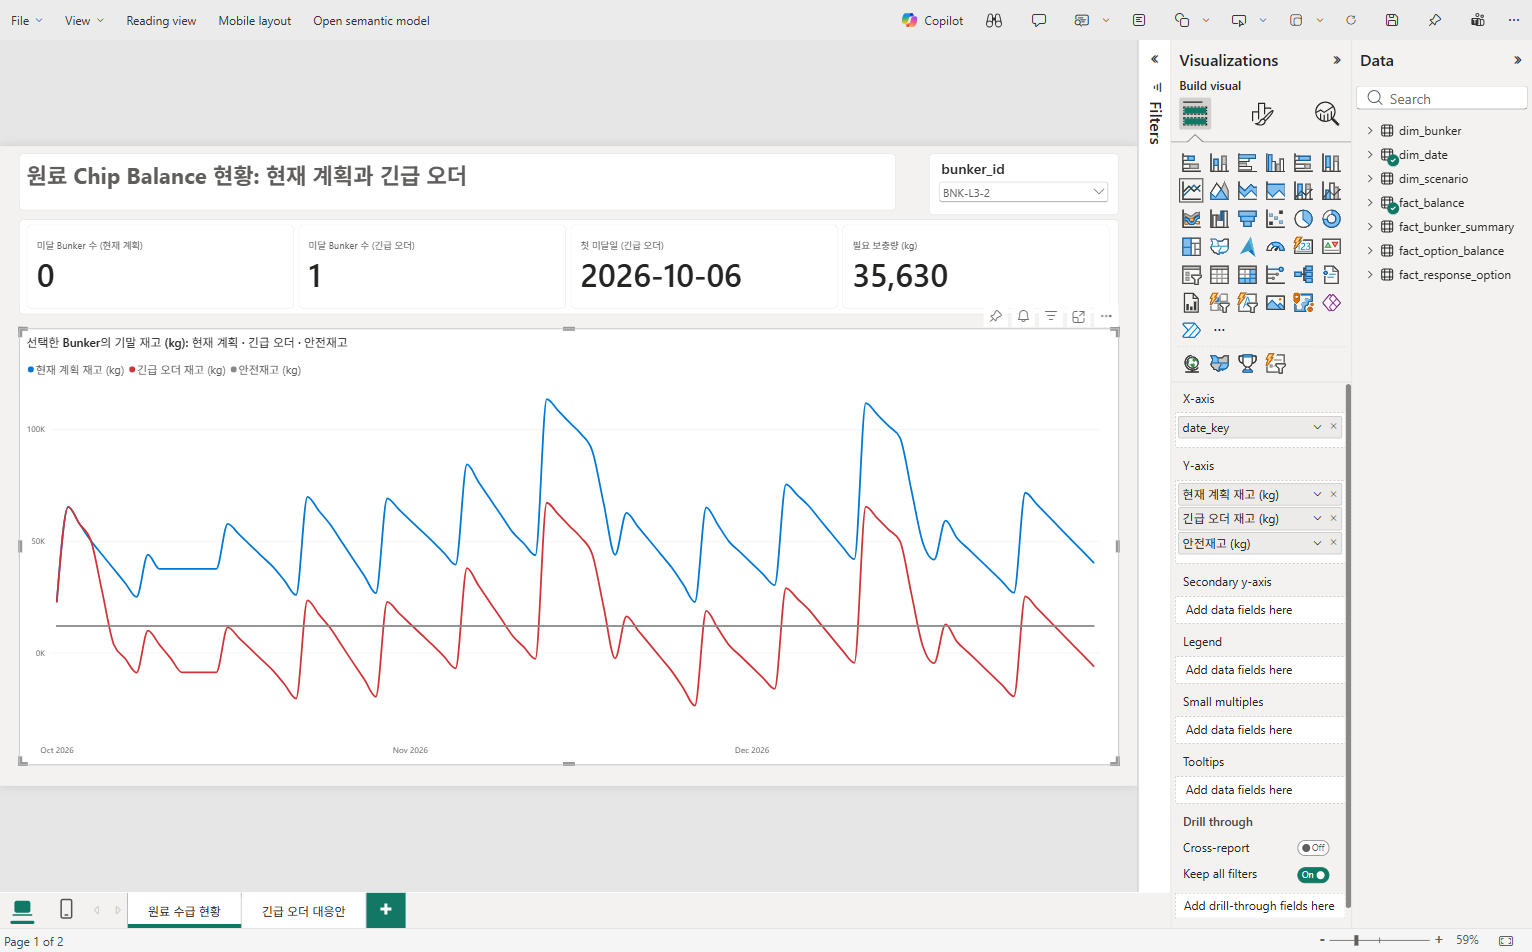
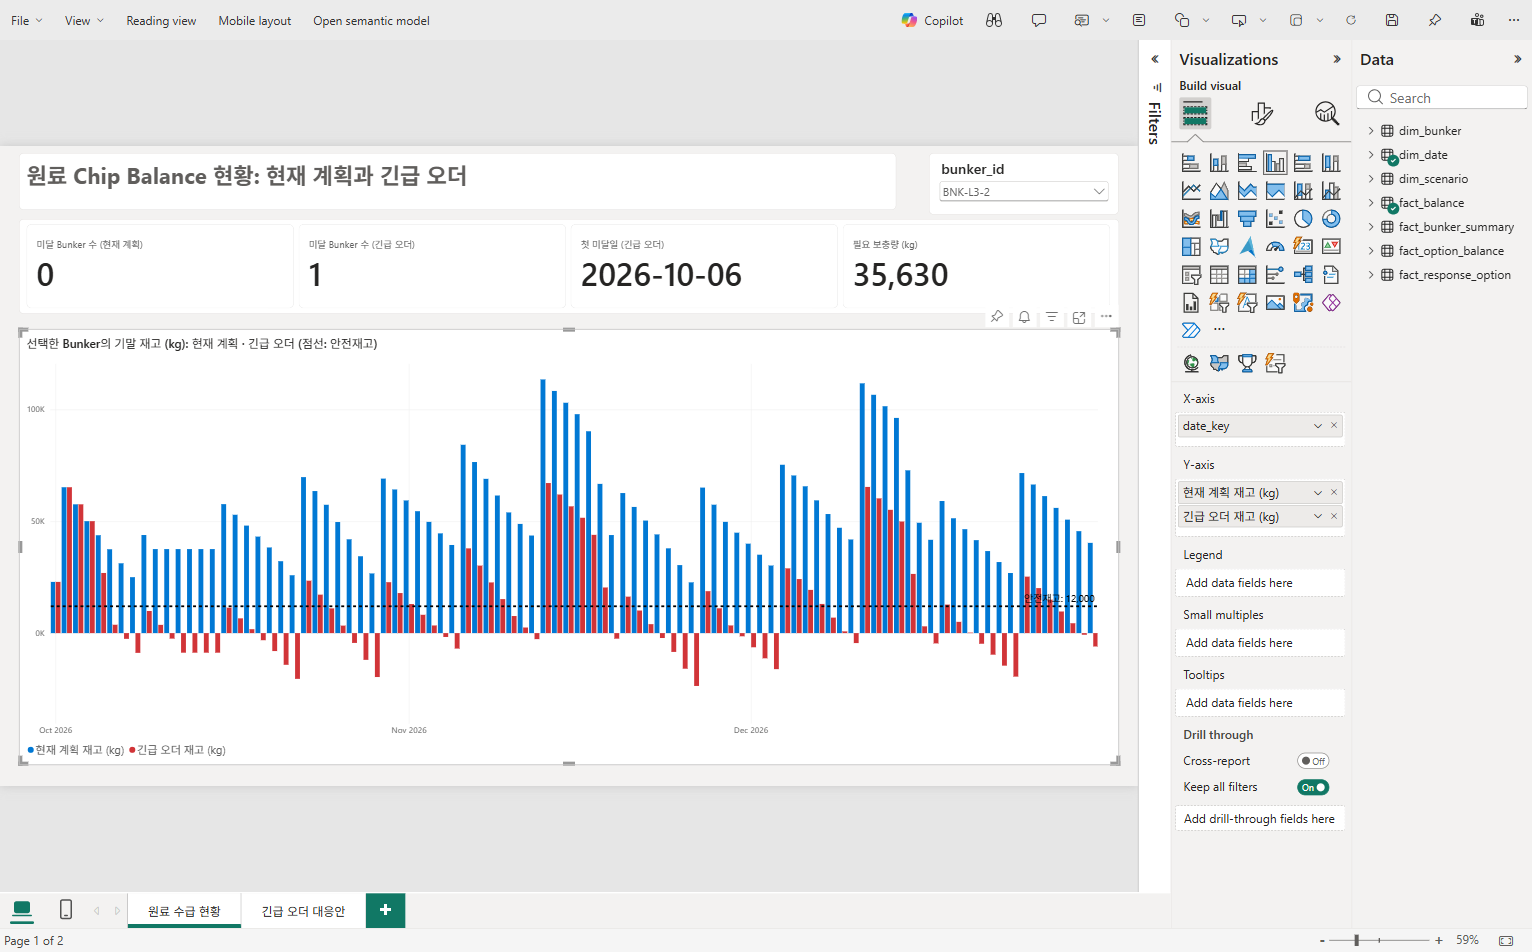
Chapter 10: clustered column charts with safety-stock constant line; Troubleshooting headings

diff --git a/docs/10-power-bi.rst b/docs/10-power-bi.rst
@@ -153,33 +153,53 @@ TMDL(Tabular Model Definition Language)은 semantic model의 테이블, 관계, 
       :width: 1000
 
 #. 슬라이서의 드롭다운을 열고 ``BNK-L3-2``\ 를 고릅니다.
-#. **꺾은선형 차트** — 캔버스 빈 곳을 누르고 **Line chart**\ 를 누릅니다. 아래 필드를 차례로 체크합니다. **Y-axis**\ 에 넣은 순서대로 파랑, 빨강, 회색 선이 됩니다.
+#. **묶은 세로 막대형 차트** — 캔버스 빈 곳을 누르고 **Clustered column chart**\ 를 누릅니다. 아래 필드를 차례로 체크합니다. **Y-axis**\ 에 넣은 순서대로 파랑, 빨강 막대가 됩니다.
 
+   * ``fact_balance``\ 의 ``현재 계획 재고 (kg)``, ``긴급 오더 재고 (kg)`` → **Y-axis**
    * ``dim_date``\ 의 ``date_key`` → **X-axis**
-   * ``fact_balance``\ 의 ``현재 계획 재고 (kg)``, ``긴급 오더 재고 (kg)``, ``안전재고 (kg)`` → **Y-axis**
 
-   **Format visual** → **General** 탭 → **Title**\ 을 펼치고, **Title**\ 의 **Text**\ 에 아래 제목을 입력합니다. 그 아래 **Subtitle**\ 은 **Off**\ 로 둡니다.
+   **Format visual** → **General** 탭 → **Title**\ 을 펼치고, **Title**\ 의 **Text**\ 에 아래 제목을 입력합니다. 그 아래 **Subtitle**\ 은 **Off**\ 로 합니다.
 
    .. code-block:: text
 
-      선택한 Bunker의 기말 재고 (kg): 현재 계획 · 긴급 오더 · 안전재고
+      선택한 Bunker의 기말 재고 (kg): 현재 계획 · 긴급 오더 (점선: 안전재고)
 
    위치와 크기: Height ``736``, Width ``1856``, Horizontal ``32``, Vertical ``308``
 
    .. image:: ../assets/screenshots/d10-chart-title.png
-      :alt: 꺾은선형 차트의 Format visual General 탭. Title이 On이고, Title 아래 Text에 선택한 Bunker의 기말이 보입니다. Heading, Font, Text color, Background color, Horizontal alignment, Text wrap 아래에 Subtitle Off, Divider Off, Spacing이 있습니다.
+      :alt: 묶은 세로 막대형 차트의 Format visual General 탭. Title이 On이고, Title 아래 Text에 선택한 Bunker의 기말이 보입니다. Heading, Font, Text color, Background color, Horizontal alignment, Text wrap 아래에 Subtitle Off, Divider Off, Spacing이 있습니다.
       :width: 200
+
+   **Visual** 탭의 **Columns** → **Layout**\ 에서 **Space between categories**\ 를 ``10``\ 으로 합니다. 막대가 굵어집니다.
+
+#. **안전재고 점선** — 차트를 선택한 채로 **Visualizations** 창의 오른쪽 아이콘(**Analytics**)을 누릅니다.
+
+   * **Y-Axis Constant Line**\ 을 펼치고 **+ Add line**\ 을 누릅니다. 생긴 줄의 연필 아이콘을 눌러 이름을 ``안전재고``\ 로 바꿉니다.
+   * **Line**\ 의 **Value** 오른쪽 **fx**\ 를 누릅니다. **Format style**\ 은 **Field value**\ 로 두고, **What field should we base this on?**\ 에서 **All data** → ``fact_balance`` → ``안전재고 (kg)``\ 를 고른 뒤 **OK**\ 를 누릅니다.
+
+     .. image:: ../assets/screenshots/d10-refline-fx.png
+        :alt: Value - Apply settings to 창. Format style은 Field value, What field should we base this on?은 안전재고 (kg)이고, 오른쪽 아래에 OK와 Cancel 버튼이 있습니다.
+        :width: 600
+
+   * **Color**\ 는 검정, **Transparency**\ 는 ``0``\ 으로 합니다. **Line style**\ 은 **Dashed** 그대로 둡니다.
+   * **Data label**\ 을 **On**\ 으로 하고, 펼쳐서 **Horizontal position**\ 은 **Right**, **Style**\ 은 **Both**, **Color**\ 는 검정으로 합니다.
+
+   **예상 결과:** 차트에 검은 점선과 ``안전재고: 12,000``\ 이 보입니다. 슬라이서에서 고른 Bunker의 안전재고 높이에 선이 그어집니다.
+
+   .. image:: ../assets/screenshots/d10-p1-refline.png
+      :alt: 원료 수급 현황 페이지에서 묶은 세로 막대형 차트를 선택하고 Analytics 창을 연 화면. Y-Axis Constant Line (1) 아래 안전재고 줄이 있고, Line의 Value는 fx로 지정되어 있으며 Color 검정, Transparency 0 %, Line style Dashed, Data label On입니다. 차트에는 검은 점선이 0K 바로 위에 가로로 그어져 있습니다.
+      :width: 1000
 
 #. **제목** — 위쪽 도구 모음의 **Text box**\ 를 누르고 ``원료 Chip Balance 현황: 현재 계획과 긴급 오더``\ 를 입력합니다. 글자를 모두 선택하고, 텍스트 도구 모음에서 글꼴 크기를 ``28``\ 로 하고 **B**\ (굵게)를 누릅니다.
 
    텍스트 상자를 선택하면 오른쪽 창이 **Format text box**\ 가 됩니다. **General** → **Properties**\ 에 위치와 크기를 입력합니다: Height ``96``, Width ``1480``, Horizontal ``32``, Vertical ``12``
 
    .. image:: ../assets/screenshots/d10-textbox.png
-      :alt: 제목 텍스트 상자를 선택한 화면. 텍스트 도구 모음에 글꼴 Segoe UI, 크기 28, 굵게가 선택되어 있고, 오른쪽은 Format text box 창의 General 탭입니다. 캔버스에 제목, 슬라이서, 카드, 꺾은선형 차트가 있습니다.
+      :alt: 제목 텍스트 상자를 선택한 화면. 텍스트 도구 모음에 글꼴 Segoe UI, 크기 28, 굵게가 선택되어 있고, 오른쪽은 Format text box 창의 General 탭입니다. 캔버스에 제목, 슬라이서, 카드, 묶은 세로 막대형 차트가 있습니다.
       :width: 1000
 
 **예상 결과:** 카드에 ``0``, ``1``, ``2026-10-06``, ``35,630``\ 이 보입니다. 현재 계획에서는 안전재고 아래로 내려가는 Bunker가 없고, 긴급 수주를 반영하면 1개가 10월 6일부터 미달하며 35,630 kg이 더 필요합니다.
-차트에서 파란 선(현재 계획)은 회색 선(안전재고) 위에 있고, 빨간 선(긴급 수주)은 10월 6일부터 회색 선 아래로 내려갑니다.
+차트에서 파란 막대(현재 계획)는 모두 점선(안전재고) 위에 있고, 빨간 막대(긴급 수주)는 10월 6일부터 점선 아래로 내려가며 0 아래로 내려가는 날도 있습니다.
 
 시각적 개체를 누르면 **Build visual**\ 에 넣은 필드가 보입니다. 카드와 차트의 필드를 확인합니다.
 
@@ -188,7 +208,7 @@ TMDL(Tabular Model Definition Language)은 semantic model의 테이블, 관계, 
    :width: 1000
 
 .. image:: ../assets/screenshots/d10-p1-chart.png
-   :alt: 원료 수급 현황 페이지에서 꺾은선형 차트를 선택한 화면. X-axis에 date_key, Y-axis에 현재 계획 재고 (kg), 긴급 오더 재고 (kg), 안전재고 (kg)가 있습니다. 차트 제목은 선택한 Bunker의 기말 재고 (kg): 현재 계획 · 긴급 오더 · 안전재고이고, 파란 선은 회색 선 위에 있으며 빨간 선은 회색 선 아래로 내려갑니다.
+   :alt: 원료 수급 현황 페이지에서 묶은 세로 막대형 차트를 선택한 화면. X-axis에 date_key, Y-axis에 현재 계획 재고 (kg), 긴급 오더 재고 (kg)가 있습니다. 차트 제목은 선택한 Bunker의 기말 재고 (kg): 현재 계획 · 긴급 오더 (점선: 안전재고)이고, 날짜마다 파란 막대와 빨간 막대가 나란히 있으며 빨간 막대는 점선 아래나 0 아래로 내려가는 날이 많습니다.
    :width: 1000
 
 5. 저장
@@ -225,21 +245,23 @@ TMDL(Tabular Model Definition Language)은 semantic model의 테이블, 관계, 
       :alt: 긴급 오더 대응안 페이지에서 표를 선택한 화면. Build visual의 Columns에 option_id, option_name, C1 안전재고, C2 용량, C3 납기, C4 이송 한도, 추천 순위, 추가 비용 (원), 첫 도착일, 판단이 있습니다. 표 머리글은 파란색이고, OPT-1부터 OPT-4까지 4행에 ✅와 ❌, 1순위 (추천), 2순위, 추가 비용, 첫 도착일, 판단이 보입니다.
       :width: 1000
 
-#. **꺾은선형 차트** — **Line chart**\ 를 넣고 아래 필드를 차례로 체크합니다.
+#. **묶은 세로 막대형 차트** — **Clustered column chart**\ 를 넣고 아래 필드를 차례로 체크합니다.
 
+   * ``fact_option_balance``\ 의 ``추천안 적용 후 재고 (kg)``, ``fact_balance``\ 의 ``긴급 오더 재고 (kg)`` → **Y-axis**
    * ``dim_date``\ 의 ``date_key`` → **X-axis**
-   * ``fact_option_balance``\ 의 ``추천안 적용 후 재고 (kg)``, ``fact_balance``\ 의 ``긴급 오더 재고 (kg)``, ``안전재고 (kg)`` → **Y-axis**
 
-   **Title**\ 의 **Text**\ 에 아래 제목을 입력하고, **Subtitle**\ 은 **Off**\ 로 둡니다.
+   **Title**\ 의 **Text**\ 에 아래 제목을 입력하고, **Subtitle**\ 은 **Off**\ 로 합니다. **Columns** → **Layout**\ 의 **Space between categories**\ 는 ``10``\ 으로 합니다.
 
    .. code-block:: text
 
-      선택한 Bunker의 기말 재고 (kg): 추천안 적용 후 · 긴급 오더 · 안전재고
+      선택한 Bunker의 기말 재고 (kg): 추천안 적용 후 · 긴급 오더 (점선: 안전재고)
+
+   **Analytics**\ 에서 4단계와 같이 **Y-Axis Constant Line**\ 을 넣습니다. 이름 ``안전재고``, **Value**\ 의 **fx** → ``fact_balance``\ 의 ``안전재고 (kg)``, 검정, **Transparency** ``0``, **Data label** **On**\ (**Right**, **Both**, 검정)입니다.
 
    위치와 크기: Height ``384``, Width ``1856``, Horizontal ``32``, Vertical ``672``
 
    .. image:: ../assets/screenshots/d10-p2-chart.png
-      :alt: 긴급 오더 대응안 페이지에서 꺾은선형 차트를 선택한 화면. X-axis에 date_key, Y-axis에 추천안 적용 후 재고 (kg), 긴급 오더 재고 (kg), 안전재고 (kg)가 있습니다. 파란 선은 회색 선 위에 있고 빨간 선은 회색 선 아래로 내려갑니다.
+      :alt: 긴급 오더 대응안 페이지에서 묶은 세로 막대형 차트를 선택한 화면. X-axis에 date_key, Y-axis에 추천안 적용 후 재고 (kg), 긴급 오더 재고 (kg)가 있습니다. 파란 막대는 모두 검은 점선 위에 있고, 빨간 막대는 점선 아래나 0 아래로 내려가는 날이 있습니다.
       :width: 1000
 
 #. **Ctrl+S**\ 를 눌러 저장합니다.
@@ -252,32 +274,33 @@ TMDL(Tabular Model Definition Language)은 semantic model의 테이블, 관계, 
    **예상 결과:** 4단계의 예상 결과와 같은 숫자와 차트가 보입니다.
 
    .. image:: ../assets/screenshots/d10-report-p1.png
-      :alt: 읽기 보기의 원료 수급 현황 페이지. 제목 원료 Chip Balance 현황: 현재 계획과 긴급 오더, 오른쪽 위 슬라이서 BNK-L3-2, 카드 미달 Bunker 수 (현재 계획) 0, 미달 Bunker 수 (긴급 오더) 1, 첫 미달일 (긴급 오더) 2026-10-06, 필요 보충량 (kg) 35,630이 있고, 아래 차트에 파란 선, 빨간 선, 회색 선이 있습니다.
+      :alt: 읽기 보기의 원료 수급 현황 페이지. 제목 원료 Chip Balance 현황: 현재 계획과 긴급 오더, 오른쪽 위 슬라이서 BNK-L3-2, 카드 미달 Bunker 수 (현재 계획) 0, 미달 Bunker 수 (긴급 오더) 1, 첫 미달일 (긴급 오더) 2026-10-06, 필요 보충량 (kg) 35,630이 있고, 아래 차트에 날짜마다 파란 막대와 빨간 막대, 검은 점선(안전재고: 12,000)이 있습니다.
       :width: 1000
 
 #. **Pages**\ 에서 ``긴급 오더 대응안``\ 을 고릅니다.
 
    **예상 결과:** 카드에 ``2``, ``OPT-2 Bunker 간 이송``, ``1,000,000``\ 이 보입니다.
    표에서 ``OPT-2``\ 와 ``OPT-3``\ 은 C1~C4가 모두 ✅이고 추천 순위가 ``1순위 (추천)``, ``2순위``\ 입니다. ``OPT-1``\ 은 C1, ``OPT-4``\ 는 C1과 C3이 ❌입니다.
-   차트의 파란 선(추천안 적용 후)은 회색 선(안전재고) 위에 있습니다. 06장에서 계산한 결과와 같습니다.
+   차트의 파란 막대(추천안 적용 후)는 모두 점선(안전재고) 위에 있습니다. 06장에서 계산한 결과와 같습니다.
 
    .. image:: ../assets/screenshots/d10-report-p2.png
-      :alt: 읽기 보기의 긴급 오더 대응안 페이지. 카드 기준 충족 대응안 수 2, 추천안 OPT-2 Bunker 간 이송, 추천안 추가 비용 (원) 1,000,000이 있습니다. 표에서 OPT-1은 C1 ❌, OPT-2는 모두 ✅와 1순위 (추천), OPT-3은 모두 ✅와 2순위, OPT-4는 C1과 C3 ❌이고 판단에 C1 안전재고: BNK-L3-2 10/12부터 미달, C3 납기: SO-10322 완료 10/12, 납기 10/08이 두 줄로 보입니다. 아래 차트에서 파란 선은 회색 선 위에 있습니다.
+      :alt: 읽기 보기의 긴급 오더 대응안 페이지. 카드 기준 충족 대응안 수 2, 추천안 OPT-2 Bunker 간 이송, 추천안 추가 비용 (원) 1,000,000이 있습니다. 표에서 OPT-1은 C1 ❌, OPT-2는 모두 ✅와 1순위 (추천), OPT-3은 모두 ✅와 2순위, OPT-4는 C1과 C3 ❌이고 판단에 C1 안전재고: BNK-L3-2 10/12부터 미달, C3 납기: SO-10322 완료 10/12, 납기 10/08이 두 줄로 보입니다. 아래 차트에서 파란 막대는 모두 검은 점선 위에 있습니다.
       :width: 1000
 
 #. 슬라이서에서 추천안이 PET-SD를 보내는 ``BNK-L1-2``\ 를 고릅니다.
 
-   **예상 결과:** ``긴급 오더 대응안`` 페이지의 파란 선이 이송한 만큼 빨간 선보다 낮지만, 최저 16,763 kg으로 회색 선(안전재고 6,000 kg) 위에 있습니다. 확인한 뒤 ``BNK-L3-2``\ 로 되돌립니다.
+   **예상 결과:** ``긴급 오더 대응안`` 페이지의 파란 막대가 이송한 만큼 빨간 막대보다 낮지만, 최저 16,763 kg으로 점선(안전재고: 6,000) 위에 있습니다. 확인한 뒤 ``BNK-L3-2``\ 로 되돌립니다.
 
-문제가 생기면
-----------------
+Troubleshooting
+---------------
 
 * **Apply** 뒤 오류가 나면 아래 **Problems** 탭에서 오류가 난 줄을 확인합니다. 테이블이 없다는 오류이면 **Model view** 리본의 **Edit tables**\ 에서 1단계의 테이블 7개가 모두 체크되어 있는지 확인하고 다시 **Apply**\ 를 누릅니다.
 * 시각적 개체에 관계를 다시 계산해야 한다는 오류가 보이면 2단계의 **Refresh** → **Data**\ 를 다시 실행하고, 1분 뒤 보고서 탭을 새로 고칩니다.
 * Semantic model이 **Viewing**\ 으로 열리면 오른쪽 위 **Viewing**\ 을 누르고 **Editing**\ 을 고릅니다.
 * TMDL 스크립트 탭은 창을 닫으면 사라집니다. **Apply**\ 로 적용한 관계와 측정값은 모델에 남습니다.
 * 슬라이서 목록에 **(Blank)**\ 가 보이면 4단계의 ``is not (Blank)`` 필터를 확인합니다.
-* 차트 선의 색이 다르면 **Y-axis**\ 의 필드 순서를 확인합니다. 필드를 끌어서 순서를 바꿀 수 있습니다.
+* 막대 색이 다르면 **Y-axis**\ 의 필드 순서를 확인합니다. 필드를 끌어서 순서를 바꿀 수 있습니다.
+* 점선이 0에 그어지면 **Y-Axis Constant Line**\ 의 **Value**\ 에 **fx**\ 로 ``안전재고 (kg)``\ 를 지정했는지 확인합니다.
 * 시각적 개체가 겹쳐 선택하기 어려우면 먼저 위치와 크기를 입력해 자리를 옮깁니다.
 
 다음 단계

diff --git a/docs/05-gold-onelake.rst b/docs/05-gold-onelake.rst
@@ -179,8 +179,8 @@ Databricks가 저장한 Gold를 Fabric에서 그대로 읽습니다.
    :alt: SQL analytics endpoint의 SQL query 1. 위에 SELECT 문이 있고, 아래 Results에 balance_date, opening_kg, receipt_kg, requirement_kg, closing_kg, below_safety 열이 있는 10행 표가 있습니다. 2026-10-01 opening 30370, closing 22898입니다.
    :width: 1000
 
-문제가 생기면
-----------------
+Troubleshooting
+---------------
 
 * **10. OneLake에 저장**\ 에서 ``service credential`` 오류가 나면 01장 **5. OneLake 연결 확인**\ 을 다시 실행하고, 오류 메시지를 관리자에게 알립니다.
 * Fabric에 ``gold`` 테이블이 보이지 않으면 Explorer의 **Tables** 옆 **…** > **Refresh**\ 를 누릅니다.

diff --git a/docs/01-connect.rst b/docs/01-connect.rst
@@ -175,8 +175,8 @@ Compute가 중지되어 있으면 시작하는 데 3~5분 걸립니다.
 * Notebook은 ``dbutils.credentials.getServiceCredentialsProvider``\ 로 토큰을 받아 OneLake에 씁니다. 토큰은 화면에 표시하지 않습니다.
 * 관리자가 설정한 화면은 `관리자 준비 가이드 <../admin/README.rst>`_\ 의 "2. 관리 ID와 service credential"에 있습니다.
 
-문제가 생기면
-----------------
+Troubleshooting
+---------------
 
 * **1. Compute 확인**\ 에서 "배정받은 Classic Compute를 선택한 뒤 다시 실행하세요" 오류가 나면 3단계로 돌아갑니다.
 * "participant는 p001처럼 …" 오류가 나면 4단계에서 참가자 번호를 고치고 그 셀부터 다시 실행합니다.

diff --git a/docs/09-ontology-agent.rst b/docs/09-ontology-agent.rst
@@ -129,8 +129,8 @@ Ontology agent는 Ontology와 함께 만들어진 Eventhouse에서 ``sql_request
 
 숫자가 정답과 다르면 **Reasoning**\ 의 쿼리에서 시나리오(``baseline``/``emergency``)와 조건을 확인합니다.
 
-문제가 생기면
-----------------
+Troubleshooting
+---------------
 
 * 답이 시나리오를 잘못 골랐으면 질문에 "긴급 오더를 반영하지 않은 현재 계획"이나 "긴급 오더를 반영하면"처럼 시나리오를 밝혀 다시 묻습니다.
 * 첫 질문으로 Q6을 하면 대응안을 알려 달라고 되묻기도 합니다. Q1부터 차례로 묻거나, "긴급 오더 대응안 4개(OPT-1~OPT-4) 가운데"처럼 대상을 밝혀 묻습니다.

diff --git a/docs/02-source-data.rst b/docs/02-source-data.rst
@@ -162,10 +162,10 @@
 
 05장에서 이 값으로 Bunker 24개의 날짜별 재고를 계산하고, 06장에서 긴급 수주를 반영합니다.
 
-문제가 생기면
-----------------
+Troubleshooting
+---------------
 
-* **1. 설정과 생성기 불러오기**\ 에서 오류가 나면 01장 **문제가 생기면**\ 을 확인합니다.
+* **1. 설정과 생성기 불러오기**\ 에서 오류가 나면 01장 **Troubleshooting**\ 을 확인합니다.
 * ``PERMISSION_DENIED``\ 처럼 Volume 쓰기 오류가 나면 오류 메시지를 관리자에게 알립니다.
 * 셀을 여러 번 실행해도 됩니다. **2. 원천 파일 만들기**\ 는 매번 같은 파일을 새로 만듭니다.
 

diff --git a/docs/07-genie.rst b/docs/07-genie.rst
@@ -185,8 +185,8 @@ Q6은 판단 기준 C1~C4 충족 여부를 표로 보여 주고 추천안을 답
 
 같은 6개 질문을 09장에서 Fabric의 Ontology agent에도 합니다.
 
-문제가 생기면
-----------------
+Troubleshooting
+---------------
 
 * Genie가 "스토리지 접근 권한 문제로 쿼리를 실행할 수 없다"고 답하면 4단계에서 **Default warehouse**\ 가 ``chipbalance-pro``\ 인지 확인합니다.
 * 답이 정답과 다르면 답 아래 **Show code**\ 로 SQL을 확인합니다. 시나리오(``baseline``/``emergency``) 조건이 빠졌으면 질문에 "긴급 오더를 반영하면"처럼 시나리오를 밝혀 다시 묻습니다.

diff --git a/docs/04-silver.rst b/docs/04-silver.rst
@@ -127,8 +127,8 @@
       :alt: 9. Silver 정리 결과. Silver 테이블, 행 수 열이 있는 15행 표입니다. silver_purchase_order_open 719, silver_bunker_level 17267, silver_quarantine 23입니다.
       :width: 900
 
-문제가 생기면
-----------------
+Troubleshooting
+---------------
 
 * ``TABLE_OR_VIEW_NOT_FOUND`` 오류가 나면 03장 ``03_bronze``\ 를 먼저 실행합니다.
 * 격리 건수가 다르면 02장부터 다시 실행합니다. 02를 다시 실행하면 03, 04도 다시 실행합니다.

diff --git a/docs/06-emergency-order.rst b/docs/06-emergency-order.rst
@@ -213,8 +213,8 @@
 
 추천은 계산 결과입니다. 11장에서 Operations agent가 이 추천을 Teams로 보내고, 담당자가 승인합니다.
 
-문제가 생기면
-----------------
+Troubleshooting
+---------------
 
 * ``TABLE_OR_VIEW_NOT_FOUND`` 오류가 나면 05장 ``05_gold``\ 를 먼저 실행합니다.
 * 05장을 다시 실행하면 ``emergency`` 행이 지워집니다. 이 Notebook을 다시 실행합니다.
